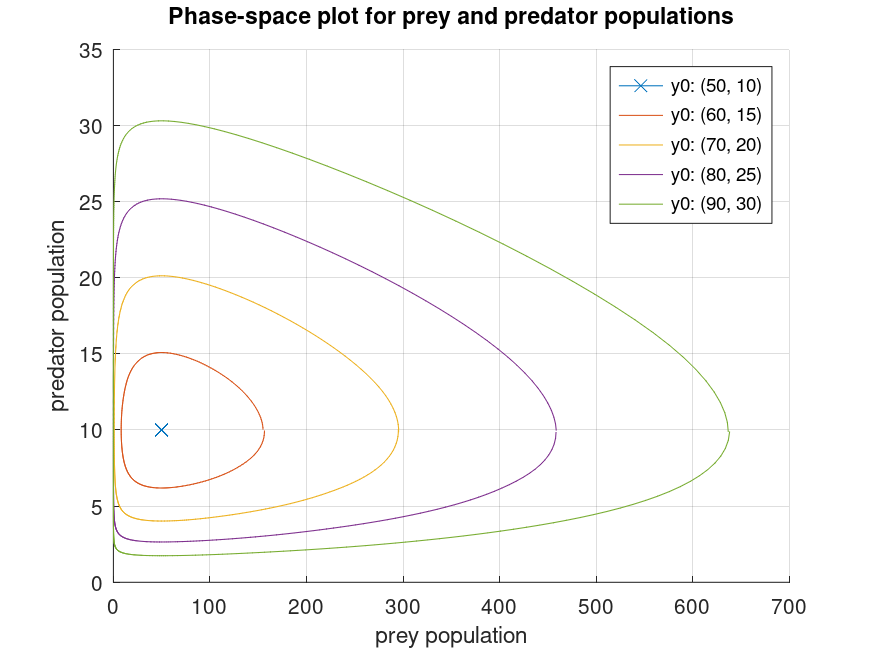
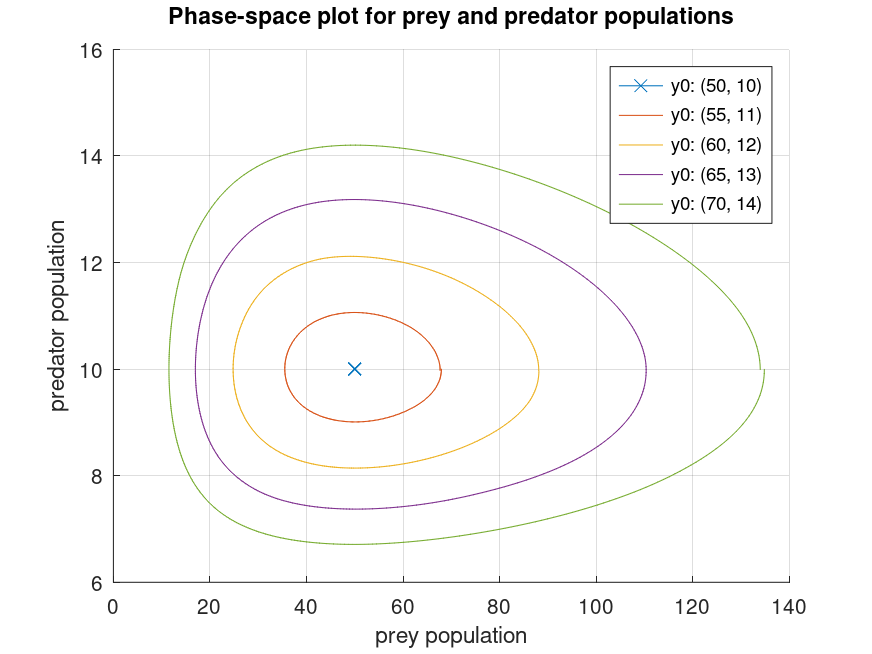
fix: set back the step for phase-plot (to the state before commit dc20600)

diff --git a/main_predator_prey_model_study.m b/main_predator_prey_model_study.m
@@ -14,4 +14,4 @@ palette = containers.Map({'prey', 'predator', 'prey_steady_state', 'predator_ste
 titles = set_title_dictionary('EN');
 
 study_lotka_volterra_model(model, n_years, y0, titles, palette)
-plot_phase_space_for_lv_model(model, [10, 5], n_years, 5, titles)
+plot_phase_space_for_lv_model(model, round(steady_state * 0.1), n_years, 5, titles)
